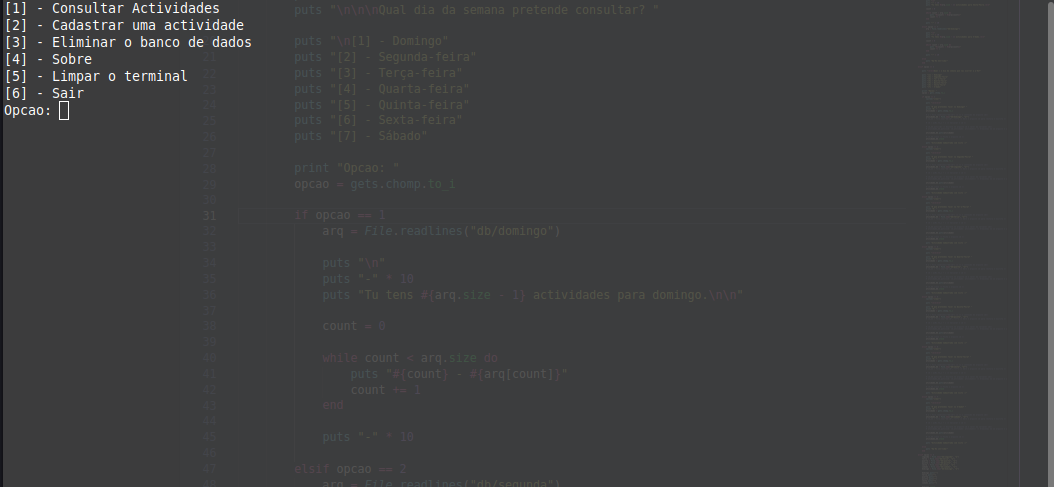
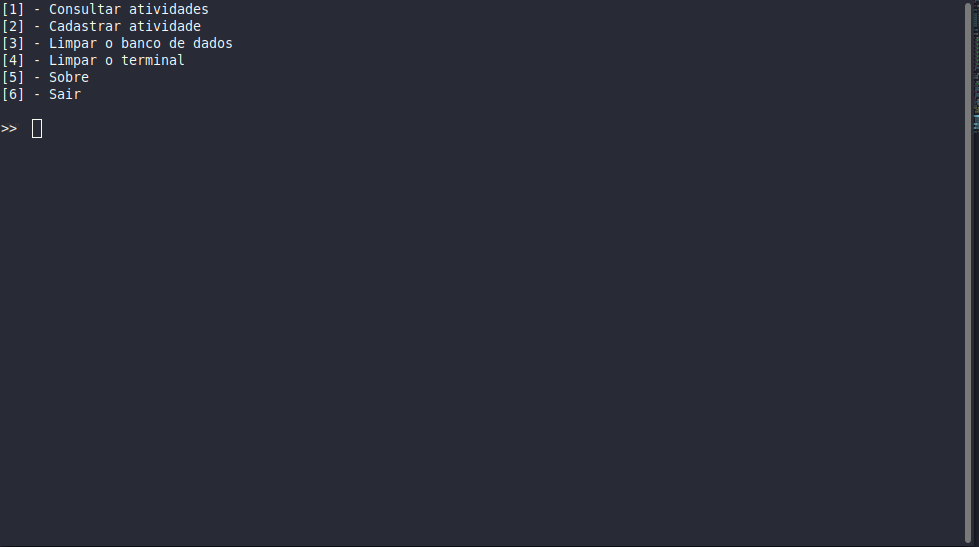
New version

diff --git a/app.rb b/app.rb
@@ -1,116 +1,193 @@
+require 'json'
+
 system('clear')
 
-DAYS_OF_THE_WEEK = ["Domingo", "Segunda-feira", "Terça-feira", "Quarta-feira", "Quinta-feira", "Sexta-feira", "Sábado"]
+def consult(day = 'domingo')
+  system('clear')
 
-def consult(day)
+  arq = File.read('db.json')
+  file = JSON.parse(arq)[day]
 
-    regexp_day = Regexp.new("^#{day}\-")
+  puts "Tu tens #{file.length} atividades para #{day}.\n\n"
 
-    arq = File.readlines("db/agen.txt")
-    arq.delete_if {|a| !a.match(regexp_day) }
+  count = 0
 
-    puts "\n"
-    puts "-" * 10
-    puts "Tu tens #{arq.size} atividades para #{DAYS_OF_THE_WEEK[day-1]}.\n\n"
-
-    count = 0
-
-    while count < arq.size do
-        puts "#{count} - #{arq[count].gsub(regexp_day,"")}"
-        count += 1
-    end
-
-    puts "-" * 10
+  while count < file.length
+    puts puts "#{count + 1} - #{file[count]}"
+    count += 1
+  end
 end
 
-def register(day)
-    system("clear")
-            
-            puts "\n\n\n\n"
+def register(day = 'domingo')
+  system('clear')
 
-            puts "O que pretende fazer? "
-            print "R: "
-            atividade = gets.chomp.to_s
-            
-            atividade_db = File.new("db/agen.txt", "a+")
-            atividade_db.puts("#{day}-" + atividade)
-            atividade_db.close
+  puts "\n\n\n\n"
 
-            puts "Atividade Cadastrada com êxito :)"
+  puts 'O que pretende fazer? '
+  print 'R: '
+  activity = gets.chomp.to_s
+
+  arq = File.read('db.json')
+  save = JSON.parse(arq)
+  save[day].push(activity)
+
+  file = File.open('db.json', 'w')
+  file.puts('{')
+  save.each do |key, value|
+    if key == 'sabado'
+      file.puts("\"#{key}\" : #{value}")
+    else
+      file.puts("\"#{key}\" : #{value},")
+    end
+  end
+  file.puts('}')
+  file.close
+
+  puts 'Atividade Cadastrada com êxito :)'
 end
 
-def list_options_days_week
-    DAYS_OF_THE_WEEK.each_with_index do |week,index|
-        puts "[#{index+1}] - #{week}"
+def delete()
+
+  arq = File.read('db.json')
+  save = JSON.parse(arq)
+
+  file = File.open('db.json', 'w')
+  file.puts('{')
+  save.each do |key, value|
+    if key == 'sabado'
+      file.puts("\"#{key}\" : #{%w{}}")
+    else
+      file.puts("\"#{key}\" : #{%w{}},")
     end
+  end
+  file.puts('}')
+  file.close
+
+  puts 'Banco de dados restaurado com êxito :>'
+end
+
+def wait
+  print 'Click qualquer letra para continuar...'
+  gets.chomp
+  system('clear')
 end
 
 loop do
+  puts '[1] - Consultar atividades'
+  puts '[2] - Cadastrar atividade'
+  puts '[3] - Limpar o banco de dados'
+  puts '[4] - Limpar o terminal'
+  puts '[5] - Sobre'
+  puts '[6] - Sair'
 
-    puts "[1] - Consultar atividades"
-    puts "[2] - Cadastrar atividade"
-    puts "[3] - Limpar o banco de dados"
-    puts "[4] - Limpar o terminal"
-    puts "[5] - Sobre"
-    puts "[6] - Sair"
+  print "  \n>>  "
+
+  value = gets.chomp.to_i
+
+  if value == 1
+
+    puts '-' * 10
+    puts "\n\n\nQual é o dia da semana que pretende consultar? "
+
+    puts "\n[1] - Domingo"
+    puts '[2] - Segunda-feira'
+    puts '[3] - Terça-feira'
+    puts '[4] - Quarta-feira'
+    puts '[5] - Quinta-feira'
+    puts '[6] - Sexta-feira'
+    puts '[7] - Sábado'
 
     print "  \n>>  "
-    opcao = gets.chomp.to_i
 
-    if opcao == 1
+    value = gets.chomp.to_i
 
-        puts "-" * 10
-        puts "\n\n\nQual é o dia da semana que pretende consultar?\n"
+    if value == 1
+      consult('domingo')
+      wait
+    elsif value == 2
+      consult('segunda')
+      wait
+    elsif value == 3
+      consult('terca')
+      wait
+    elsif value == 4
+      consult('quarta')
+      wait
+    elsif value == 5
+      consult('quinta')
+      wait
+    elsif value == 6
+      consult('sexta')
+      wait
+    elsif value == 7
+      consult('sabado')
+      wait
+    else
+      puts 'Opção Inválida!'
+    end
 
-        list_options_days_week
+  elsif value == 2
 
-        print "  \n>>  "
-        opcao = gets.chomp.to_i
+    puts "\n\n\nQual é o dia da semana que vai ocorrer?"
 
-        if opcao >= 1 && opcao <= 7
-            consult(opcao)
-        else
-            puts "Opção Inválida!"
-        end
-        
-    elsif opcao == 2
-        
-        puts "\n\n\nQual é o dia da semana que vai ocorrer?\n"
+    puts '[1] - Domingo'
+    puts '[2] - Segunda-feira'
+    puts '[3] - Terça-feira'
+    puts '[4] - Quarta-feira'
+    puts '[5] - Quinta-feira'
+    puts '[6] - Sexta-feira'
+    puts '[7] - Sábado'
 
-        list_options_days_week
+    print "  \n>>  "
 
-        print "  \n>>  "
-        opcao = gets.chomp.to_i
+    value = gets.chomp.to_i
 
-        if opcao >= 1 && opcao <= 7
-            register(opcao)
-        else 
-            puts "Opção inválida!"
-        end
-    
-    elsif opcao == 3
+    if value == 1
+      register('domingo')
+    elsif value == 2
+      register('segunda')
+    elsif value == 3
+      register('terca')
+    elsif value == 4
+      register('quarta')
+    elsif value == 5
+      register('quinta')
+    elsif value == 6
+      register('sexta')
+    elsif value == 7
+      register('sabado')
+    else
+      puts 'Opção inválida!'
+    end
 
-        day = File.new("db/agen.txt", "w")
-        day.puts("")
-        day.close
+  elsif value == 3
+    print 'Tem certeza? [S, n] '
+    value = gets.chomp.to_s
 
-        puts "Banco de dados eliminado com êxito :>!"
-
-    elsif opcao == 4
-        system("clear")
-    elsif opcao == 5
-        puts """
-        Nome do projeto: Agen
-        última atualização: 05/04/2021 15:31
-        Autor: Lietson dos santos
-        """
-    elsif opcao == 6
-        puts "\n\n\n"
-        puts "Espero que tenha gostado do agen :>"
-        exit
-    else 
-        puts "Opção inválida!"
+    if value === 's' || value === 'S' || value === ''
+      delete()
+    elsif value === 'n' || value === 'N'
+      system('clear')
+      puts 'Nenhuma alteração feita!'
+    else
+      system('clear')
+      puts 'Ups! Nenhuma alteração feita!'
+    end
+  elsif value == 4
+    system('clear')
+  elsif value == 5
+    puts '
+    Nome do projeto: Agen
+      última atualização: 05/04/2021 15:31
+      Autor: Lietson dos santos
+      '
+    elsif value == 6
+      puts "\n\n\n"
+      puts 'Espero que tenha gostado do agen :>'
+      exit
+    else
+      puts 'Opção inválida!'
     end
 
     puts "\n\n\n"
-end
+  end
